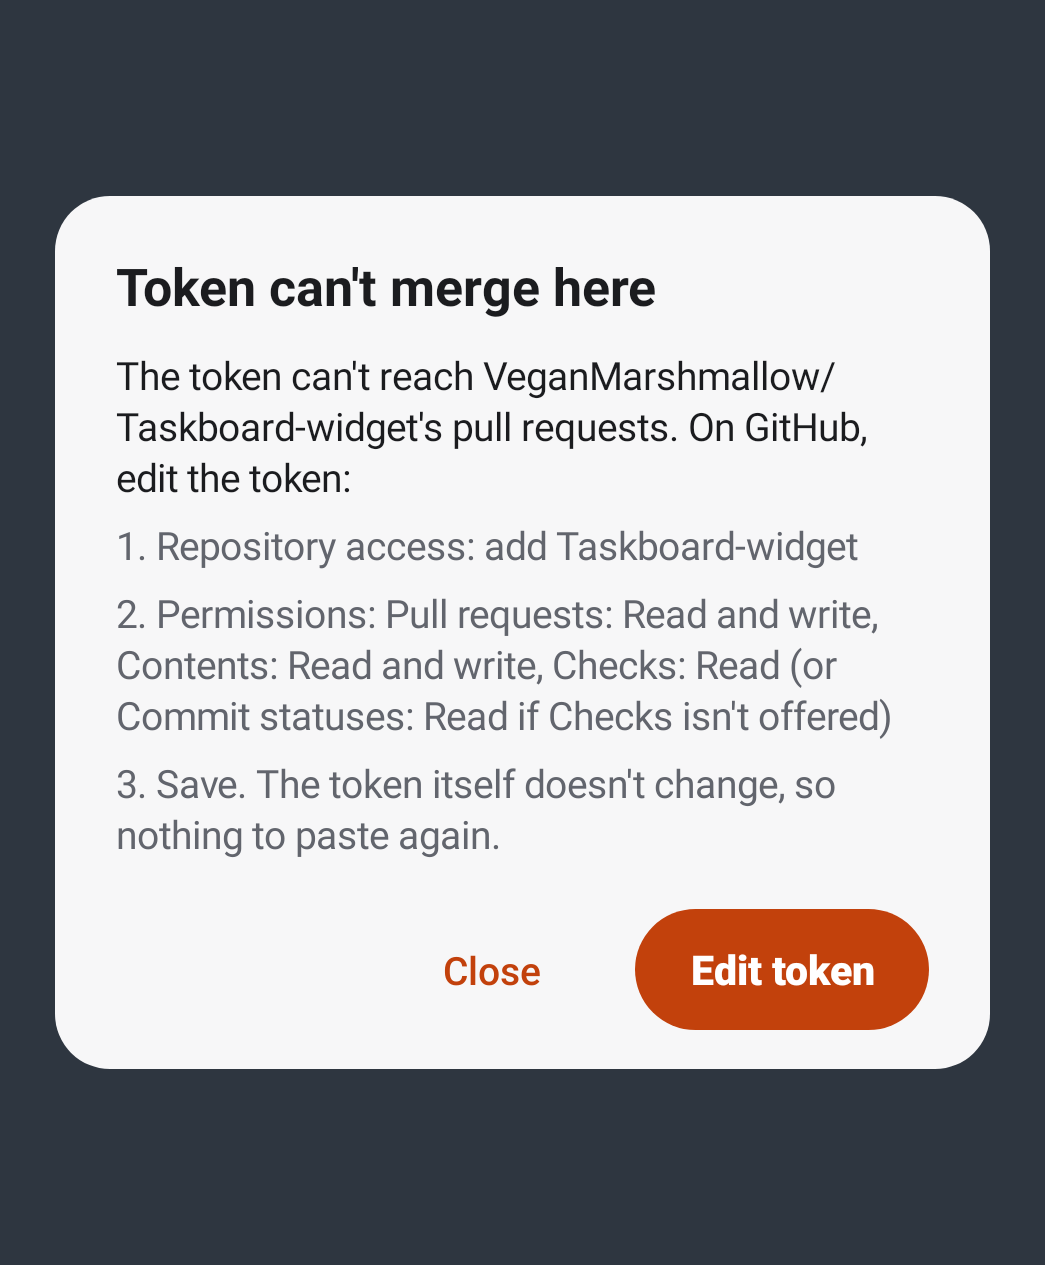
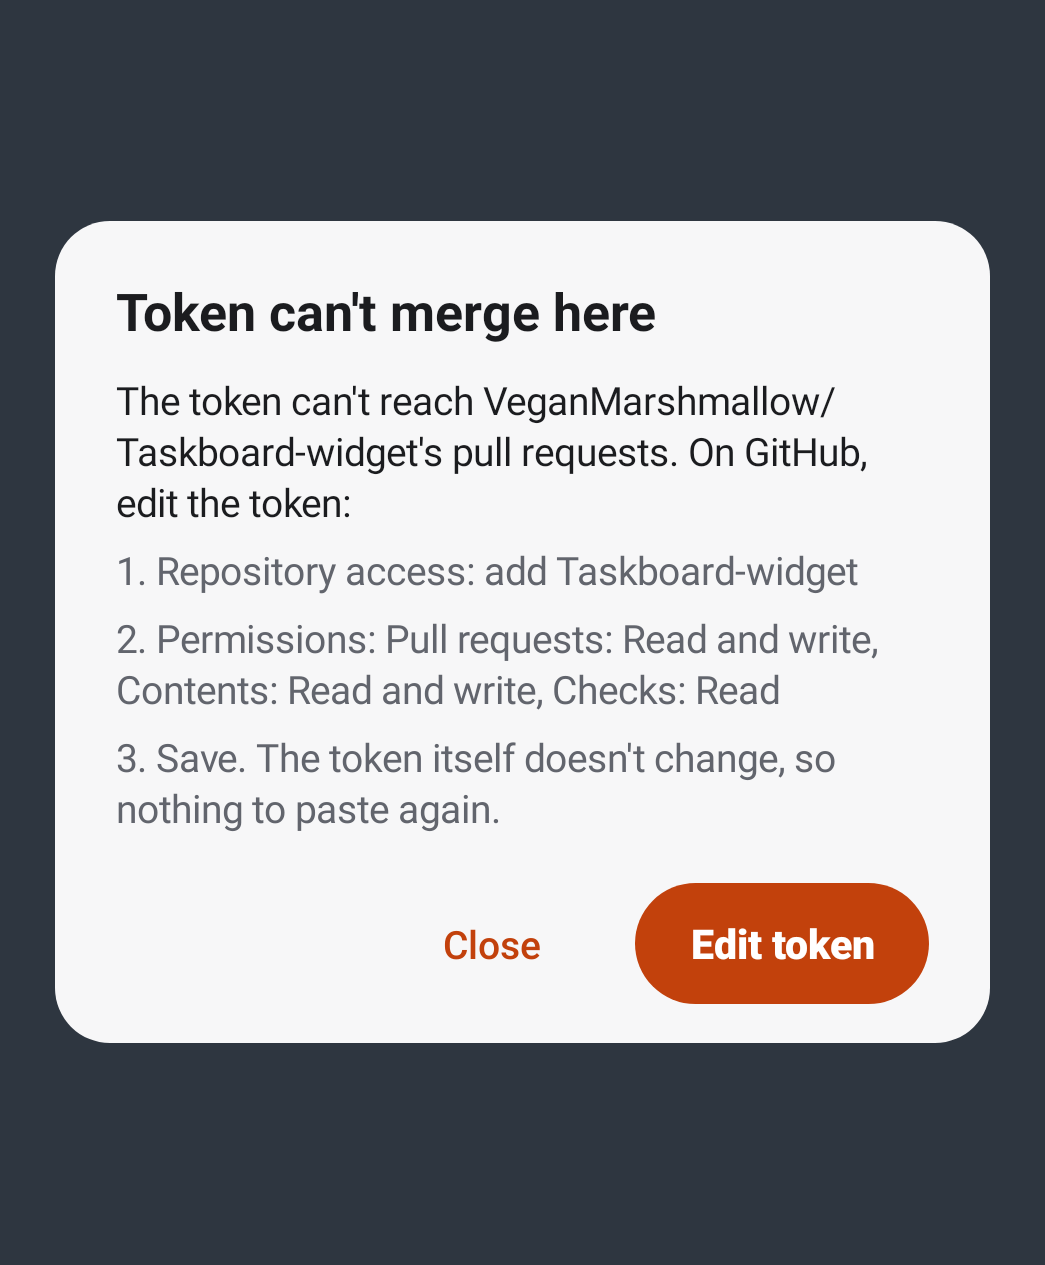
Review #30: test a double tap on Merge; refresh token screenshots
- The preview test taps Merge twice and checks exactly one PUT, then waits
  for the refresh the merge starts to end, so no job outlives the test.
- Screenshots 30-5 and 30-8 show the corrected permissions (Checks: Read).

Claude-Session: https://claude.ai/code/session_01UHGxxNQTGPLr3gHtZik7Qq

diff --git a/app/src/androidTest/kotlin/io/github/veganmarshmallow/taskboard/MergeFlowTest.kt b/app/src/androidTest/kotlin/io/github/veganmarshmallow/taskboard/MergeFlowTest.kt
@@ -13,6 +13,7 @@ import io.github.veganmarshmallow.taskboard.core.merge.MergeProblem
 import io.github.veganmarshmallow.taskboard.core.merge.MergeService
 import io.github.veganmarshmallow.taskboard.core.merge.MergeStep
 import io.github.veganmarshmallow.taskboard.core.snapshot.WidgetState
+import io.github.veganmarshmallow.taskboard.core.work.RefreshTracker
 import io.github.veganmarshmallow.taskboard.data.AppGraph
 import io.github.veganmarshmallow.taskboard.data.StateStore
 import io.github.veganmarshmallow.taskboard.data.TokenStore
@@ -121,9 +122,16 @@ class MergeFlowTest {
             assertEquals(FakeMerges.TITLE, flow!!.shown!!.lines[0])
             assertEquals("VeganMarshmallow/Taskboard-widget #12", flow!!.shown!!.lines[1])
             assertTrue("nothing merged before confirming", s.received.none { it.method == "PUT" })
-            instrumentation.runOnMainSync { clickPrimary(flow!!) }
+            // A double tap: the second click arrives before the first one's work is done.
+            instrumentation.runOnMainSync { clickPrimary(flow!!); clickPrimary(flow!!) }
             waitUntil("merged and closed") { activity.mergeFlow == null && activity.findViewById<View>(R.id.preview_merged).isShown }
-            assertEquals(1, s.received.count { it.method == "PUT" })
+            // The refresh the merge starts must end inside this test, so its job can't leave a
+            // running mark for later tests; by then a second merge would also have sent its PUT.
+            waitUntil("the refresh after the merge ended", timeoutMs = 60_000) {
+                s.received.any { it.path.startsWith("/repos/VeganMarshmallow/claude-workspace/issues?") } &&
+                    AppGraph.refreshTracker(context).status() != RefreshTracker.Status.RUNNING
+            }
+            assertEquals("a double tap merges once", 1, s.received.count { it.method == "PUT" })
             instrumentation.runOnMainSync { assertTrue(!activity.findViewById<View>(R.id.preview_merge).isShown) }
         } finally {
             instrumentation.runOnMainSync { activity.finish() }
